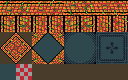
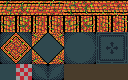
procedural maps - minor fixes

Changed region(s): [[0.0, 0.4, 0.25, 0.8], [0.25, 0.8, 0.5, 1.0]]

diff --git a/lib/game/main.js b/lib/game/main.js
@@ -420,13 +420,14 @@ MyGame = ig.Game.extend({
 
 		// SETTINGS
 		var blueprint = {
-			width: 			24,
-			height: 		12,
+			width: 			28,
+			height: 		14,
 			tileSize: 		16,
 			spriteSheet: 	'media/maps/' + params.spriteSheet,
 			tiles: {
 				placeholder: 34,
 				floor: 		33,
+				space: 		[35,36],
 				walls: {
 					top: 	[1,2,3,4],
 					bottom:	[5,6,7,8],
@@ -633,11 +634,13 @@ MyGame = ig.Game.extend({
 
 			for (var i = 0; i < 4; i++) {
 				if(blueprint.gates[i]){
-
-					var pos = blueprint.gates[i];
+					var pos = blueprint.gates[i],
+						type;
+					if(params.spriteSheet == 'orange') type = 'EntityGate';
+					if(params.spriteSheet == 'green') type = 'EntityGate_forest';
 					if(billGates[pos].length){
 						proceduralMap.entities.push({
-							type: "EntityGate",
+							type: type,
 							x: billGates[pos][randomGate[pos]].x*blueprint.tileSize,
 							y: billGates[pos][randomGate[pos]].y*blueprint.tileSize,
 							settings: {
@@ -649,6 +652,16 @@ MyGame = ig.Game.extend({
 			};
 
 
+		}
+
+		fillSpace = function(){
+			for (var y = 0; y < blueprint.height; y++) {
+				for (var x = 0; x < blueprint.width; x++) {
+					if(mapData[y][x] == 0){
+						mapData[y][x] = blueprint.tiles.space[(Math.random()*blueprint.tiles.space.length)<<0];
+					}
+				}
+			}
 		}
 
 		printMap = function(){
@@ -788,6 +801,7 @@ MyGame = ig.Game.extend({
 
 		insertGrails();
 
+		fillSpace();
 
 		// COMBINE EVERYTHING
 
